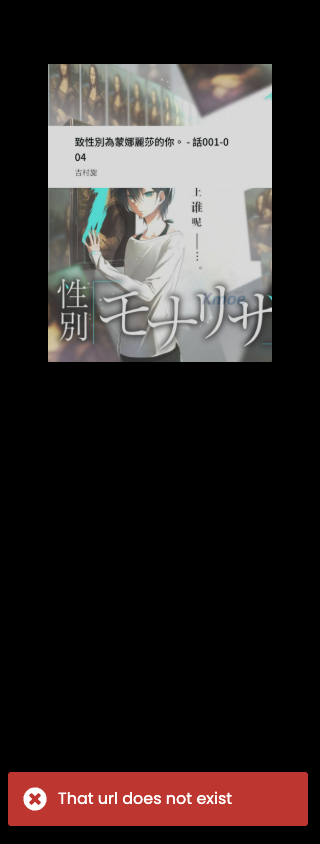
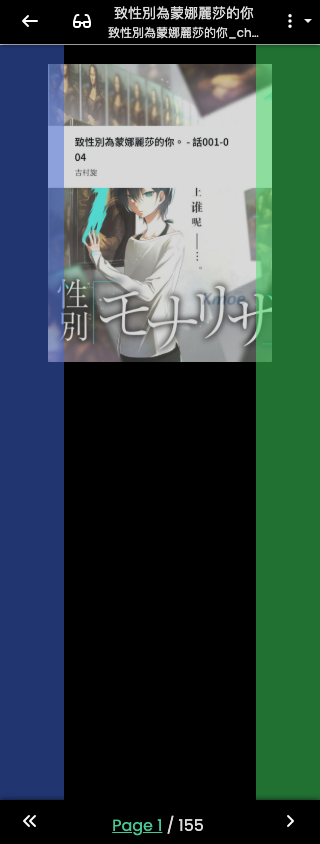
feat: improve mobile reader UI, error handling, and add regression tests

diff --git a/UI/Web/src/app/book-reader/_components/book-reader/book-reader.component.html b/UI/Web/src/app/book-reader/_components/book-reader/book-reader.component.html
@@ -55,7 +55,7 @@
              [ngClass]="{'immersive': immersiveMode() && actionBarVisible, 'debug': debugMode()}"
              [innerHtml]="page()" (click)="toggleMenu($event)" (mousedown)="mouseDown($event)" (wheel)="onWheel($event)"></div>
 
-          @if (shouldShowBottomActionBar()) {
+          @if (shouldShowBottomActionBar() && !loadError()) {
             <div class="bottom-bar" (click)="$event.stopPropagation();">
               <ng-container [ngTemplateOutlet]="bottomActionBar" [ngTemplateOutletContext]="{isTop: false}" />
             </div>
@@ -135,11 +135,13 @@
                 <i class="fa fa-times-circle" aria-hidden="true"></i>
               </button>
             </div>
-            <div ngbDropdown class="mobile-controls" placement="bottom-end" container="body">
-              <button type="button" class="btn btn-icon" ngbDropdownToggle [attr.aria-label]="t('more-options')">
+            <div ngbDropdown #readerTools="ngbDropdown" class="mobile-controls" placement="bottom-end" container="body"
+                 (keydown.escape)="readerTools.close(); $event.stopPropagation()">
+              <button #readerToolsToggle type="button" class="btn btn-icon" ngbDropdownToggle [attr.aria-label]="t('more-options')">
                 <i class="fa fa-ellipsis-v" aria-hidden="true"></i>
               </button>
-              <div ngbDropdownMenu class="reader-tools-menu">
+              <div ngbDropdownMenu class="reader-tools-menu" (keydown)="$event.stopPropagation()"
+                   (keydown.escape)="readerTools.close(); readerToolsToggle.focus()">
                 <button ngbDropdownItem (click)="toggleDrawer()">{{ t('settings-alt') }}</button>
                 <button ngbDropdownItem (click)="viewToCDrawer()">{{ t('contents-alt') }}</button>
                 <button ngbDropdownItem (click)="viewBookmarkImages()">{{ t('bookmarks-alt') }}</button>
@@ -158,7 +160,7 @@
         <div class="d-flex justify-content-start">
           <button class="btn btn-outline-secondary btn-icon ms-sm-5"
                   (click)="movePage(isLeftToRight ? PAGING_DIRECTION.BACKWARDS : PAGING_DIRECTION.FORWARD)"
-                  [disabled]="isPrevDisabled()"
+                  [disabled]="isPrevDisabled() || isLoading() || loadError()"
                   title="{{isLeftToRight ? t('previous') : t('next')}} Page">
             <i class="fa {{(isLeftToRight ? IsPrevChapter : IsNextChapter) ? 'fa-angle-double-left' : 'fa-angle-left'}} {{isLeftToRight ? '' : 'next-page-highlight'}}" aria-hidden="true"></i>
           </button>
@@ -200,7 +202,7 @@
 
         <div class="d-flex justify-content-end">
           <button class="btn btn-outline-secondary btn-icon me-sm-5"
-                  [disabled]="isNextDisabled()"
+                  [disabled]="isNextDisabled() || isLoading() || loadError()"
                   (click)="movePage(isLeftToRight ? PAGING_DIRECTION.FORWARD : PAGING_DIRECTION.BACKWARDS)"
                   title="{{isLeftToRight ? t('next') : t('previous')}} Page">
             <i class="fa {{(isLeftToRight ? IsNextChapter : IsPrevChapter) ? 'fa-angle-double-right' : 'fa-angle-right'}} {{readingDirection() === ReadingDirection.LeftToRight ? 'next-page-highlight' : ''}}" aria-hidden="true"></i>

diff --git a/UI/Web/src/app/book-reader/_components/book-reader/book-reader.component.ts b/UI/Web/src/app/book-reader/_components/book-reader/book-reader.component.ts
@@ -1181,9 +1181,13 @@ export class BookReaderComponent implements OnInit, AfterViewInit, OnDestroy, Af
     this.isLoading.set(true);
 
     if (this.nextChapterId === CHAPTER_ID_NOT_FETCHED || this.nextChapterId === this.chapterId) {
-      this.readerService.getNextChapter(this.seriesId, this.volumeId, this.chapterId, this.readingListId).subscribe(chapterId => {
-        this.nextChapterId = chapterId;
-        this.loadChapter(chapterId, 'Next');
+      this.readerService.getNextChapter(this.seriesId, this.volumeId, this.chapterId, this.readingListId)
+        .pipe(takeUntilDestroyed(this.destroyRef)).subscribe({
+        next: chapterId => {
+          this.nextChapterId = chapterId;
+          this.loadChapter(chapterId, 'Next');
+        },
+        error: () => this.showLoadError(),
       });
       return;
     }
@@ -1213,9 +1217,13 @@ export class BookReaderComponent implements OnInit, AfterViewInit, OnDestroy, Af
     }
 
     if (this.prevChapterId === CHAPTER_ID_NOT_FETCHED || this.prevChapterId === this.chapterId && !this.prevChapterPrefetched) {
-      this.readerService.getPrevChapter(this.seriesId, this.volumeId, this.chapterId, this.readingListId).subscribe(chapterId => {
-        this.prevChapterId = chapterId;
-        this.loadChapter(chapterId, 'Prev');
+      this.readerService.getPrevChapter(this.seriesId, this.volumeId, this.chapterId, this.readingListId)
+        .pipe(takeUntilDestroyed(this.destroyRef)).subscribe({
+        next: chapterId => {
+          this.prevChapterId = chapterId;
+          this.loadChapter(chapterId, 'Prev');
+        },
+        error: () => this.showLoadError(),
       });
     } else {
       this.loadChapter(this.prevChapterId, 'Prev');

diff --git a/UI/Web/src/app/pdf-reader/_components/pdf-reader/pdf-reader.component.html b/UI/Web/src/app/pdf-reader/_components/pdf-reader/pdf-reader.component.html
@@ -11,11 +11,13 @@
           <span>{{ seriesTitle || bookTitle || t('loading-message') }}</span>
           <small>{{ bookTitle }}</small>
         </div>
-        <div ngbDropdown placement="bottom-end" container="body">
-          <button type="button" class="btn btn-icon" ngbDropdownToggle [attr.aria-label]="t('more-options')">
+        <div ngbDropdown #pdfTools="ngbDropdown" placement="bottom-end" container="body"
+             (keydown.escape)="pdfTools.close(); $event.stopPropagation()">
+          <button #pdfToolsToggle type="button" class="btn btn-icon" ngbDropdownToggle [attr.aria-label]="t('more-options')">
             <i class="fa fa-ellipsis-v" aria-hidden="true"></i>
           </button>
-          <div ngbDropdownMenu class="pdf-mobile-menu">
+          <div ngbDropdownMenu class="pdf-mobile-menu" (keydown)="$event.stopPropagation()"
+               (keydown.escape)="pdfTools.close(); pdfToolsToggle.focus()">
             @if (incognitoMode) { <span class="dropdown-header">{{ t('incognito-mode') }}</span> }
             <label class="dropdown-item" for="pdf-mobile-page">{{ t('page-number') }}</label>
             <input #pageInput id="pdf-mobile-page" class="form-control" type="number" min="1" [max]="maxPages" [value]="currentPage"
@@ -109,7 +111,7 @@
           }
         </div>
       }
-      @if (scrollMode === ScrollModeType.page && !isLoading) {
+      @if (scrollMode === ScrollModeType.page && !isLoading && !isChapterLoading && !loadError) {
         @if (!isSearchOpen) {
           <div class="left" (click)="prevPage()"></div>
           <div class="{{scrollbarNeeded ? 'right-with-scrollbar' : 'right'}}" (click)="nextPage()"></div>

diff --git a/UI/Web/src/app/_services/server.service.ts b/UI/Web/src/app/_services/server.service.ts
@@ -1,4 +1,4 @@
-import {HttpClient} from '@angular/common/http';
+import {HttpClient, HttpContext} from '@angular/common/http';
 import {inject, Injectable} from '@angular/core';
 import {environment} from '../../environments/environment';
 import {ServerInfoSlim} from '../admin/_models/server-info';
@@ -8,6 +8,7 @@ import {KavitaMediaError} from '../admin/_models/media-error';
 import {TextResonse} from "../_types/text-response";
 import {map} from "rxjs/operators";
 import {ActivitySnapshot} from '../_models/activity/activity-snapshot';
+import {OPTIONAL_ENDPOINT} from '../_types/optional-endpoint';
 
 export enum TaskMethodNames {
   RunMetadataMappings = 'RunMetadataMappings'
@@ -73,7 +74,9 @@ export class ServerService {
   }
 
   getActivity() {
-    return this.http.get<ActivitySnapshot>(this.baseUrl + 'server/activity');
+    return this.http.get<ActivitySnapshot>(this.baseUrl + 'server/activity', {
+      context: new HttpContext().set(OPTIONAL_ENDPOINT, true),
+    });
   }
 
   convertMedia() {

diff --git a/UI/Web/src/app/_services/activity-snapshot.service.ts b/UI/Web/src/app/_services/activity-snapshot.service.ts
@@ -12,6 +12,7 @@ export class ActivitySnapshotService {
   private readonly destroyRef = inject(DestroyRef);
 
   private readonly requests = new Subject<void>();
+  private unsupported = false;
   private _result = signal<ActivitySnapshotResult | null>(null);
   readonly result = this._result.asReadonly();
   readonly snapshot = computed(() => this._result()?.snapshot ?? null);
@@ -22,7 +23,10 @@ export class ActivitySnapshotService {
         const requestedAtMs = Date.now();
         return this.serverService.getActivity().pipe(
           map(snapshot => ({snapshot, requestedAtMs})),
-          catchError(() => EMPTY),
+          catchError(error => {
+            if (error.status === 404) this.unsupported = true;
+            return EMPTY;
+          }),
         );
       }),
       takeUntilDestroyed(this.destroyRef),
@@ -30,6 +34,6 @@ export class ActivitySnapshotService {
   }
 
   refresh() {
-    this.requests.next();
+    if (!this.unsupported) this.requests.next();
   }
 }

diff --git a/UI/Web/src/app/_interceptors/error.interceptor.ts b/UI/Web/src/app/_interceptors/error.interceptor.ts
@@ -8,6 +8,7 @@ import {AccountService} from '../_services/account.service';
 import {translate, TranslocoService} from "@jsverse/transloco";
 import {AUTH_URL_KEY} from "../_guards/auth.guard";
 import {APP_BASE_HREF} from "@angular/common";
+import {OPTIONAL_ENDPOINT} from '../_types/optional-endpoint';
 
 export const errorInterceptor: HttpInterceptorFn = (req, next) => {
   const router = inject(Router);
@@ -33,7 +34,7 @@ export const errorInterceptor: HttpInterceptorFn = (req, next) => {
           handleForbiddenError(error, toastr);
           break;
         case 404:
-          handleNotFound(toastr);
+          if (!req.context.get(OPTIONAL_ENDPOINT)) handleNotFound(toastr);
           break;
         case 500:
           handleServerException(error, toastr);

diff --git a/UI/Web/src/app/_types/optional-endpoint.ts b/UI/Web/src/app/_types/optional-endpoint.ts
@@ -1,0 +1,4 @@
+import {HttpContextToken} from '@angular/common/http';
+
+/** Older servers may not expose this optional feature. Other errors still surface normally. */
+export const OPTIONAL_ENDPOINT = new HttpContextToken<boolean>(() => false);

diff --git a/tools/mobile-reader-tests/README.md b/tools/mobile-reader-tests/README.md
@@ -1,0 +1,17 @@
+# Mobile reader regression
+
+Run from the repository root after building `UI/Web` in production mode.
+
+```sh
+node tools/mobile-reader-tests/preview.mjs
+# In another terminal, with puppeteer-core available:
+node tools/mobile-reader-tests/regression.mjs
+```
+
+The temporary preview serves the production build on localhost:1315 and proxies API/SignalR requests to the existing server on localhost:1314. Stop it with Ctrl+C after testing. It creates no container.
+
+The regression uses Brave on macOS by default. Set `KAVITA_TEST_BROWSER` to another Chromium executable, and `PUPPETEER_MODULE` to an installed puppeteer-core module path if it is not resolvable locally. Optional overrides: `KAVITA_TEST_URL`, `KAVITA_TEST_DB`, `KAVITA_TEST_OUTPUT`.
+
+This installation-specific integration test reads the local SQLite database in read-only mode to select the existing EPUB (致性別為蒙娜麗莎的你_ch001-004) and PDF (新世紀福音戰士_v01) fixtures and an existing admin API key. It keeps credentials in memory and redacts the key from failure output. It opens readers in incognito reading mode and intercepts progress writes, so test reading does not change saved progress. A fresh browser profile is used for every run.
+
+Coverage includes 320/390/430px mobile layouts, EPUB paging, button accessible names, touch menu actions, Escape behavior, series return, PDF rendering/page input/next chapter, desktop toolbar visibility, and injected HTTP 500 errors with retry. Missing user cover images and the older server's absent optional Activity endpoint are recorded separately from intentionally injected failures. Screenshots and sanitized results are saved under `docs/2026-10-13-kavita-reader-improvements`.
